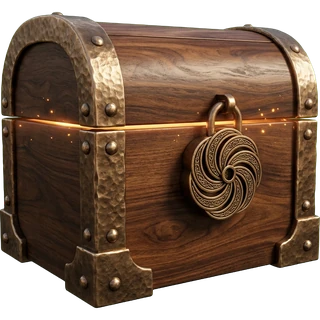
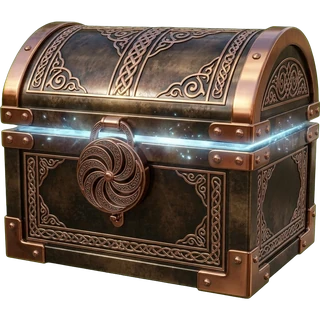
Case opening animation: drop, shake with seam glow, burst open with flash, rays and sparks, then the prize reel
Claude-Session: https://claude.ai/code/session_01AL2dBCS2fTfjXEhGfirNkU

diff --git a/dev/artifact-index.html b/dev/artifact-index.html
@@ -146,6 +146,22 @@ button:focus-visible { outline: 2px solid var(--gold-hi); outline-offset: 2px; }
 #caseFx { position: fixed; inset: 0; z-index: 75; display: flex; flex-direction: column; align-items: center; justify-content: center; gap: 22px; background: radial-gradient(70% 50% at 50% 42%, rgba(60,40,18,.85), rgba(4,3,2,.96)); -webkit-backdrop-filter: blur(10px); backdrop-filter: blur(10px); animation: ovin .25s both; }
 #caseFx[hidden] { display: none !important; }
 #caseFx .cbox { width: 190px; height: 190px; position: relative; }
+/* case opening stage: closed and open pictures stacked, light rays and glow behind */
+.cstage { position: relative; width: min(78vw, 300px); aspect-ratio: 1; flex: none; transition: width .6s cubic-bezier(.3,.8,.3,1), margin .6s; --cg: #ffd27a; }
+.cstage.small { width: min(40vw, 150px); }
+.cstage img { position: absolute; inset: 0; width: 100%; height: 100%; object-fit: contain; }
+.cstage .co { opacity: 0; }
+.cstage .chest { position: absolute; inset: 0; transform-origin: 50% 88%; }
+.cstage .rays { position: absolute; inset: -55%; border-radius: 50%; opacity: 0; pointer-events: none;
+  background: repeating-conic-gradient(from 0deg, color-mix(in srgb, var(--cg) 55%, transparent) 0 6deg, transparent 6deg 20deg);
+  -webkit-mask: radial-gradient(circle, #000 12%, transparent 62%); mask: radial-gradient(circle, #000 12%, transparent 62%); animation: frspin 14s linear infinite; }
+.cstage .halo { position: absolute; inset: -10%; border-radius: 50%; opacity: .25; pointer-events: none; background: radial-gradient(closest-side, color-mix(in srgb, var(--cg) 70%, transparent), transparent 70%); transition: opacity .3s; }
+.cstage .beam { position: absolute; left: 22%; right: 22%; bottom: 46%; height: 120%; opacity: 0; pointer-events: none; transform-origin: 50% 100%;
+  background: linear-gradient(0deg, color-mix(in srgb, var(--cg) 90%, white), color-mix(in srgb, var(--cg) 40%, transparent) 45%, transparent);
+  -webkit-mask: linear-gradient(90deg, transparent, #000 30%, #000 70%, transparent); mask: linear-gradient(90deg, transparent, #000 30%, #000 70%, transparent); filter: blur(6px); }
+.cstage .shadow { position: absolute; left: 14%; right: 14%; bottom: 6%; height: 10%; border-radius: 50%; background: radial-gradient(closest-side, rgba(0,0,0,.7), transparent); }
+.cfl { position: fixed; inset: 0; z-index: 76; pointer-events: none; background: radial-gradient(circle at 50% 42%, #fff, color-mix(in srgb, var(--cg) 80%, white) 18%, transparent 62%); }
+#caseFx .reelwrap { transition: opacity .4s; }
 #caseFx .cbox img { width: 100%; height: 100%; object-fit: contain; filter: drop-shadow(0 16px 24px rgba(0,0,0,.7)); }
 #caseFx .cbox.shake img { animation: cshake .14s linear infinite; }
 #caseFx .cbox.pop img { animation: cpop .45s ease-in forwards; }
@@ -2707,22 +2723,47 @@ function fakeTile(k) {
 const tileHTML = (t, win) => `<div class="rtile ${win ? 'win-slot' : ''}" style="--rc:${t.rc}"><span class="ri">${t.ic}</span><span>${t.t}</span></div>`;
 const wait = ms => new Promise(r => setTimeout(r, ms));
 async function openCase(k) {
-  const fx = $('caseFx'), c = CASEDEF[k];
-  fx.innerHTML = `<div class="cbox shake"><img src="assets/cases/${k}.webp" alt=""></div><div class="cres"><span>Opening ${c.name}…</span></div>`;
-  fx.hidden = false; buzz(20);
-  const t0 = performance.now(), shakeSnd = setInterval(() => sfx.tap(), 180);
-  const r = await api('case_open', { kind: k });
-  await wait(Math.max(0, 1100 - (performance.now() - t0))); clearInterval(shakeSnd);
+  const fx = $('caseFx'), c = CASEDEF[k], cg = { bronze: '#ff9a4a', silver: '#a8d8ff', gold: '#ffd27a' }[k];
+  fx.innerHTML = `<div class="cstage" style="--cg:${cg}"><div class="rays"></div><div class="halo"></div><div class="shadow"></div><div class="beam"></div>
+    <div class="chest"><img class="cc" src="assets/cases/${k}_c.webp" alt=""><img class="co" src="assets/cases/${k}_o.webp" alt=""></div></div>
+    <div class="cres"><span>${c.name}</span></div>`;
+  fx.hidden = false;
+  const st = fx.querySelector('.cstage'), chest = st.querySelector('.chest'), cc = st.querySelector('.cc'), co = st.querySelector('.co'),
+    rays = st.querySelector('.rays'), halo = st.querySelector('.halo'), beam = st.querySelector('.beam');
+  // 1. the chest drops in and lands
+  chest.animate([{ transform: 'translateY(-70%) scale(.7)', opacity: 0 }, { transform: 'translateY(4%) scale(1.04,.94)', opacity: 1, offset: .7 }, { transform: 'none' }], { duration: 520, easing: 'cubic-bezier(.3,.6,.4,1)' });
+  setTimeout(() => { sfx.land(); buzz(15); }, 360);
+  const req = api('case_open', { kind: k });
+  await wait(600);
+  // 2. it shakes harder and harder while light leaks out of the seam
+  halo.style.transition = 'opacity 1.2s'; halo.style.opacity = '.9';
+  const shake = chest.animate([{ transform: 'rotate(0)' }, { transform: 'rotate(-3deg) translateX(-2%)' }, { transform: 'rotate(3deg) translateX(2%)' }, { transform: 'rotate(0)' }], { duration: 220, iterations: Infinity });
+  cc.animate([{ filter: 'brightness(1)' }, { filter: `brightness(1.5) drop-shadow(0 0 18px ${cg})` }], { duration: 1300, fill: 'forwards' });
+  let n = 0; const tick = setInterval(() => { sfx.tap(); shake.playbackRate = 1 + n++ * .18; }, 150);
+  const t0 = performance.now(), r = await req;
+  await wait(Math.max(0, 1300 - (performance.now() - t0)));
+  clearInterval(tick); shake.cancel();
   if (!r.reward) { fx.hidden = true; return mtoast(errText(r.error || 'network')); }
   if (r.profile) applyProfile(r.profile);
-  const box = fx.querySelector('.cbox'); box.classList.remove('shake'); box.classList.add('pop');
-  fx.insertAdjacentHTML('afterbegin', '<div class="flash"></div>'); sfx.dice(); buzz([30, 30, 60]);
-  await wait(380);
+  // 3. squash, then it bursts open: flash, rays, a beam of light and sparks
+  await chest.animate([{ transform: 'none' }, { transform: 'scale(1.06,.9) translateY(4%)' }], { duration: 140, easing: 'ease-in', fill: 'forwards' }).finished;
+  const fl = document.createElement('div'); fl.className = 'cfl'; fl.style.setProperty('--cg', cg); document.body.appendChild(fl);
+  fl.animate([{ opacity: 1 }, { opacity: 0 }], { duration: 650, easing: 'ease-out' }).onfinish = () => fl.remove();
+  cc.style.opacity = '0'; co.style.opacity = '1';
+  chest.animate([{ transform: 'scale(1.06,.9) translateY(4%)' }, { transform: 'scale(.96,1.12) translateY(-6%)', offset: .35 }, { transform: 'none' }], { duration: 520, easing: 'cubic-bezier(.2,1.4,.4,1)', fill: 'forwards' });
+  rays.animate([{ opacity: 0, transform: 'scale(.4)' }, { opacity: 1, transform: 'scale(1)' }], { duration: 600, easing: 'ease-out', fill: 'forwards' });
+  beam.animate([{ opacity: 0, transform: 'scaleY(.2)' }, { opacity: .95, transform: 'scaleY(1)', offset: .3 }, { opacity: .55, transform: 'scaleY(1)' }], { duration: 1100, easing: 'ease-out', fill: 'forwards' });
+  const sr = st.getBoundingClientRect(); fxSparks(sr.left + sr.width / 2, sr.top + sr.height * .42, k === 'gold' ? 46 : 32);
+  sfx.dice(); setTimeout(() => sfx.matchFound(), 120); buzz([30, 30, 70]);
+  await wait(1150);
+  // 4. the open chest moves up and the prize reel slides in
+  st.classList.add('small'); beam.animate([{ opacity: .55 }, { opacity: 0 }], { duration: 400, fill: 'forwards' });
   const N = 42, WIN = 36, tiles = [];
   for (let i = 0; i < N; i++) tiles.push(i === WIN ? rewardTile(r.reward) : fakeTile(k));
-  fx.querySelector('.cres').innerHTML = `<span>${c.name}</span>`;
-  box.outerHTML = `<div class="reelwrap"><div class="reel">${tiles.map((t, i) => tileHTML(t, i === WIN)).join('')}</div></div>`;
-  const reel = fx.querySelector('.reel'), wrap = fx.querySelector('.reelwrap'), wt = reel.children[WIN], tw = reel.children[1].offsetLeft - reel.children[0].offsetLeft;
+  st.insertAdjacentHTML('afterend', `<div class="reelwrap" style="opacity:0"><div class="reel">${tiles.map((t, i) => tileHTML(t, i === WIN)).join('')}</div></div>`);
+  await wait(250);
+  const reel = fx.querySelector('.reel'), wrap = fx.querySelector('.reelwrap'); wrap.style.opacity = '1';
+  const wt = reel.children[WIN], tw = reel.children[1].offsetLeft - reel.children[0].offsetLeft;
   const stop = -(wt.offsetLeft + wt.offsetWidth / 2 - wrap.clientWidth / 2), end = stop + (Math.random() - .5) * tw * .6;
   const dur = 4200, start = performance.now(); let lastIdx = -1;
   await new Promise(done => {
@@ -2734,14 +2775,13 @@ async function openCase(k) {
     };
     requestAnimationFrame(step);
   });
-  // settle exactly on the prize
   reel.style.transition = 'transform .35s ease-out'; reel.style.transform = `translateX(${stop}px)`;
   await wait(380);
-  const win = reel.children[WIN]; win.classList.add('win');
-  const rw = r.reward, t = rewardTile(rw), [rn, rc] = RARITY[rw.tier];
+  reel.children[WIN].classList.add('win');
+  const rw = r.reward, [rn, rc] = RARITY[rw.tier];
   const what = rw.item ? (CAT[rw.item[0]][rw.item[1]] || {}).name : rw.coins ? `${fmt(rw.coins)} coins` : `${fmt(rw.pearls)} pearls`;
   const sub = rw.item ? (rw.dup ? `You already have it, so you get ${fmt(rw.pearls)} pearls instead.` : `New ${({ skins: 'board', sets: 'checker set', dice: 'dice set', avatars: 'avatar', frames: 'frame' })[rw.item[0]]}. Equip it in the Shop.`) : 'Added to your balance.';
-  if (rw.tier === 'legendary' || rw.tier === 'epic') fxBanner(rn.toUpperCase(), what.toUpperCase(), rw.tier === 'legendary' ? '' : '');
+  if (rw.tier === 'legendary' || rw.tier === 'epic') fxBanner(rn.toUpperCase(), what.toUpperCase());
   sfx.win(); if (rw.coins) fxCoins(rw.coins); syncCoins(true);
   const more = caseCount(k);
   fx.querySelector('.cres').innerHTML = `<small style="color:${rc}">${rn.toUpperCase()}</small><b>${esc(what)}</b><span>${sub}</span>

diff --git a/index.html b/index.html
@@ -161,6 +161,22 @@ button:focus-visible { outline: 2px solid var(--gold-hi); outline-offset: 2px; }
 #caseFx { position: fixed; inset: 0; z-index: 75; display: flex; flex-direction: column; align-items: center; justify-content: center; gap: 22px; background: radial-gradient(70% 50% at 50% 42%, rgba(60,40,18,.85), rgba(4,3,2,.96)); -webkit-backdrop-filter: blur(10px); backdrop-filter: blur(10px); animation: ovin .25s both; }
 #caseFx[hidden] { display: none !important; }
 #caseFx .cbox { width: 190px; height: 190px; position: relative; }
+/* case opening stage: closed and open pictures stacked, light rays and glow behind */
+.cstage { position: relative; width: min(78vw, 300px); aspect-ratio: 1; flex: none; transition: width .6s cubic-bezier(.3,.8,.3,1), margin .6s; --cg: #ffd27a; }
+.cstage.small { width: min(40vw, 150px); }
+.cstage img { position: absolute; inset: 0; width: 100%; height: 100%; object-fit: contain; }
+.cstage .co { opacity: 0; }
+.cstage .chest { position: absolute; inset: 0; transform-origin: 50% 88%; }
+.cstage .rays { position: absolute; inset: -55%; border-radius: 50%; opacity: 0; pointer-events: none;
+  background: repeating-conic-gradient(from 0deg, color-mix(in srgb, var(--cg) 55%, transparent) 0 6deg, transparent 6deg 20deg);
+  -webkit-mask: radial-gradient(circle, #000 12%, transparent 62%); mask: radial-gradient(circle, #000 12%, transparent 62%); animation: frspin 14s linear infinite; }
+.cstage .halo { position: absolute; inset: -10%; border-radius: 50%; opacity: .25; pointer-events: none; background: radial-gradient(closest-side, color-mix(in srgb, var(--cg) 70%, transparent), transparent 70%); transition: opacity .3s; }
+.cstage .beam { position: absolute; left: 22%; right: 22%; bottom: 46%; height: 120%; opacity: 0; pointer-events: none; transform-origin: 50% 100%;
+  background: linear-gradient(0deg, color-mix(in srgb, var(--cg) 90%, white), color-mix(in srgb, var(--cg) 40%, transparent) 45%, transparent);
+  -webkit-mask: linear-gradient(90deg, transparent, #000 30%, #000 70%, transparent); mask: linear-gradient(90deg, transparent, #000 30%, #000 70%, transparent); filter: blur(6px); }
+.cstage .shadow { position: absolute; left: 14%; right: 14%; bottom: 6%; height: 10%; border-radius: 50%; background: radial-gradient(closest-side, rgba(0,0,0,.7), transparent); }
+.cfl { position: fixed; inset: 0; z-index: 76; pointer-events: none; background: radial-gradient(circle at 50% 42%, #fff, color-mix(in srgb, var(--cg) 80%, white) 18%, transparent 62%); }
+#caseFx .reelwrap { transition: opacity .4s; }
 #caseFx .cbox img { width: 100%; height: 100%; object-fit: contain; filter: drop-shadow(0 16px 24px rgba(0,0,0,.7)); }
 #caseFx .cbox.shake img { animation: cshake .14s linear infinite; }
 #caseFx .cbox.pop img { animation: cpop .45s ease-in forwards; }
@@ -2723,22 +2739,47 @@ function fakeTile(k) {
 const tileHTML = (t, win) => `<div class="rtile ${win ? 'win-slot' : ''}" style="--rc:${t.rc}"><span class="ri">${t.ic}</span><span>${t.t}</span></div>`;
 const wait = ms => new Promise(r => setTimeout(r, ms));
 async function openCase(k) {
-  const fx = $('caseFx'), c = CASEDEF[k];
-  fx.innerHTML = `<div class="cbox shake"><img src="assets/cases/${k}.webp" alt=""></div><div class="cres"><span>Opening ${c.name}…</span></div>`;
-  fx.hidden = false; buzz(20);
-  const t0 = performance.now(), shakeSnd = setInterval(() => sfx.tap(), 180);
-  const r = await api('case_open', { kind: k });
-  await wait(Math.max(0, 1100 - (performance.now() - t0))); clearInterval(shakeSnd);
+  const fx = $('caseFx'), c = CASEDEF[k], cg = { bronze: '#ff9a4a', silver: '#a8d8ff', gold: '#ffd27a' }[k];
+  fx.innerHTML = `<div class="cstage" style="--cg:${cg}"><div class="rays"></div><div class="halo"></div><div class="shadow"></div><div class="beam"></div>
+    <div class="chest"><img class="cc" src="assets/cases/${k}_c.webp" alt=""><img class="co" src="assets/cases/${k}_o.webp" alt=""></div></div>
+    <div class="cres"><span>${c.name}</span></div>`;
+  fx.hidden = false;
+  const st = fx.querySelector('.cstage'), chest = st.querySelector('.chest'), cc = st.querySelector('.cc'), co = st.querySelector('.co'),
+    rays = st.querySelector('.rays'), halo = st.querySelector('.halo'), beam = st.querySelector('.beam');
+  // 1. the chest drops in and lands
+  chest.animate([{ transform: 'translateY(-70%) scale(.7)', opacity: 0 }, { transform: 'translateY(4%) scale(1.04,.94)', opacity: 1, offset: .7 }, { transform: 'none' }], { duration: 520, easing: 'cubic-bezier(.3,.6,.4,1)' });
+  setTimeout(() => { sfx.land(); buzz(15); }, 360);
+  const req = api('case_open', { kind: k });
+  await wait(600);
+  // 2. it shakes harder and harder while light leaks out of the seam
+  halo.style.transition = 'opacity 1.2s'; halo.style.opacity = '.9';
+  const shake = chest.animate([{ transform: 'rotate(0)' }, { transform: 'rotate(-3deg) translateX(-2%)' }, { transform: 'rotate(3deg) translateX(2%)' }, { transform: 'rotate(0)' }], { duration: 220, iterations: Infinity });
+  cc.animate([{ filter: 'brightness(1)' }, { filter: `brightness(1.5) drop-shadow(0 0 18px ${cg})` }], { duration: 1300, fill: 'forwards' });
+  let n = 0; const tick = setInterval(() => { sfx.tap(); shake.playbackRate = 1 + n++ * .18; }, 150);
+  const t0 = performance.now(), r = await req;
+  await wait(Math.max(0, 1300 - (performance.now() - t0)));
+  clearInterval(tick); shake.cancel();
   if (!r.reward) { fx.hidden = true; return mtoast(errText(r.error || 'network')); }
   if (r.profile) applyProfile(r.profile);
-  const box = fx.querySelector('.cbox'); box.classList.remove('shake'); box.classList.add('pop');
-  fx.insertAdjacentHTML('afterbegin', '<div class="flash"></div>'); sfx.dice(); buzz([30, 30, 60]);
-  await wait(380);
+  // 3. squash, then it bursts open: flash, rays, a beam of light and sparks
+  await chest.animate([{ transform: 'none' }, { transform: 'scale(1.06,.9) translateY(4%)' }], { duration: 140, easing: 'ease-in', fill: 'forwards' }).finished;
+  const fl = document.createElement('div'); fl.className = 'cfl'; fl.style.setProperty('--cg', cg); document.body.appendChild(fl);
+  fl.animate([{ opacity: 1 }, { opacity: 0 }], { duration: 650, easing: 'ease-out' }).onfinish = () => fl.remove();
+  cc.style.opacity = '0'; co.style.opacity = '1';
+  chest.animate([{ transform: 'scale(1.06,.9) translateY(4%)' }, { transform: 'scale(.96,1.12) translateY(-6%)', offset: .35 }, { transform: 'none' }], { duration: 520, easing: 'cubic-bezier(.2,1.4,.4,1)', fill: 'forwards' });
+  rays.animate([{ opacity: 0, transform: 'scale(.4)' }, { opacity: 1, transform: 'scale(1)' }], { duration: 600, easing: 'ease-out', fill: 'forwards' });
+  beam.animate([{ opacity: 0, transform: 'scaleY(.2)' }, { opacity: .95, transform: 'scaleY(1)', offset: .3 }, { opacity: .55, transform: 'scaleY(1)' }], { duration: 1100, easing: 'ease-out', fill: 'forwards' });
+  const sr = st.getBoundingClientRect(); fxSparks(sr.left + sr.width / 2, sr.top + sr.height * .42, k === 'gold' ? 46 : 32);
+  sfx.dice(); setTimeout(() => sfx.matchFound(), 120); buzz([30, 30, 70]);
+  await wait(1150);
+  // 4. the open chest moves up and the prize reel slides in
+  st.classList.add('small'); beam.animate([{ opacity: .55 }, { opacity: 0 }], { duration: 400, fill: 'forwards' });
   const N = 42, WIN = 36, tiles = [];
   for (let i = 0; i < N; i++) tiles.push(i === WIN ? rewardTile(r.reward) : fakeTile(k));
-  fx.querySelector('.cres').innerHTML = `<span>${c.name}</span>`;
-  box.outerHTML = `<div class="reelwrap"><div class="reel">${tiles.map((t, i) => tileHTML(t, i === WIN)).join('')}</div></div>`;
-  const reel = fx.querySelector('.reel'), wrap = fx.querySelector('.reelwrap'), wt = reel.children[WIN], tw = reel.children[1].offsetLeft - reel.children[0].offsetLeft;
+  st.insertAdjacentHTML('afterend', `<div class="reelwrap" style="opacity:0"><div class="reel">${tiles.map((t, i) => tileHTML(t, i === WIN)).join('')}</div></div>`);
+  await wait(250);
+  const reel = fx.querySelector('.reel'), wrap = fx.querySelector('.reelwrap'); wrap.style.opacity = '1';
+  const wt = reel.children[WIN], tw = reel.children[1].offsetLeft - reel.children[0].offsetLeft;
   const stop = -(wt.offsetLeft + wt.offsetWidth / 2 - wrap.clientWidth / 2), end = stop + (Math.random() - .5) * tw * .6;
   const dur = 4200, start = performance.now(); let lastIdx = -1;
   await new Promise(done => {
@@ -2750,14 +2791,13 @@ async function openCase(k) {
     };
     requestAnimationFrame(step);
   });
-  // settle exactly on the prize
   reel.style.transition = 'transform .35s ease-out'; reel.style.transform = `translateX(${stop}px)`;
   await wait(380);
-  const win = reel.children[WIN]; win.classList.add('win');
-  const rw = r.reward, t = rewardTile(rw), [rn, rc] = RARITY[rw.tier];
+  reel.children[WIN].classList.add('win');
+  const rw = r.reward, [rn, rc] = RARITY[rw.tier];
   const what = rw.item ? (CAT[rw.item[0]][rw.item[1]] || {}).name : rw.coins ? `${fmt(rw.coins)} coins` : `${fmt(rw.pearls)} pearls`;
   const sub = rw.item ? (rw.dup ? `You already have it, so you get ${fmt(rw.pearls)} pearls instead.` : `New ${({ skins: 'board', sets: 'checker set', dice: 'dice set', avatars: 'avatar', frames: 'frame' })[rw.item[0]]}. Equip it in the Shop.`) : 'Added to your balance.';
-  if (rw.tier === 'legendary' || rw.tier === 'epic') fxBanner(rn.toUpperCase(), what.toUpperCase(), rw.tier === 'legendary' ? '' : '');
+  if (rw.tier === 'legendary' || rw.tier === 'epic') fxBanner(rn.toUpperCase(), what.toUpperCase());
   sfx.win(); if (rw.coins) fxCoins(rw.coins); syncCoins(true);
   const more = caseCount(k);
   fx.querySelector('.cres').innerHTML = `<small style="color:${rc}">${rn.toUpperCase()}</small><b>${esc(what)}</b><span>${sub}</span>
